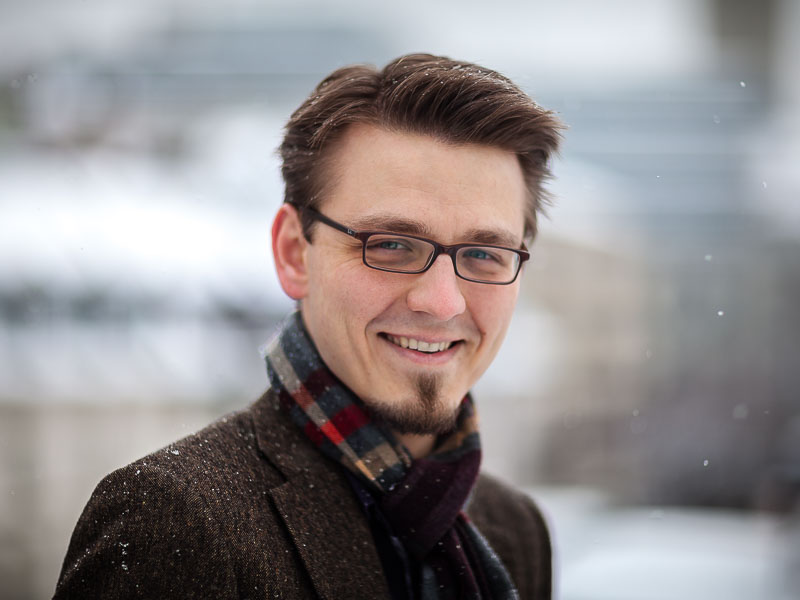
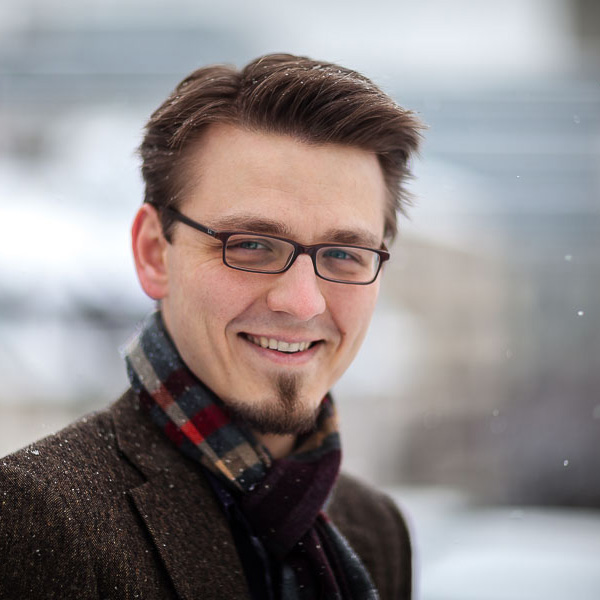
added images and cropped all to square

diff --git a/style_transfer/run.py b/style_transfer/run.py
@@ -8,8 +8,9 @@ HEIGHT = 256
 DATA_INPUT = 'data/input/'
 DATA_OUTPUT = 'data/output/'
 
-style_path = os.path.join(DATA_INPUT, 'style/vangogh.jpg')
+# style_path = os.path.join(DATA_INPUT, 'style/vangogh.jpg')
 # style_path = os.path.join(DATA_INPUT, 'style/rocks.jpg')
+style_path = os.path.join(DATA_INPUT, 'style/checkerboard.jpg')
 content_path = os.path.join(DATA_INPUT, 'content/baker.jpg')
 
 synthetic_name = os.path.splitext(style_path)[0].split('/')[-1]
@@ -60,7 +61,7 @@ transfer.transfer_style_to_image_lbfgs(out_dir = DATA_OUTPUT,
                                  alpha = 1,       # content weighting
                                  beta = 1e3,      # style weighting
                                  params = { 'type' : 'lbfgs',
-                                            'factr' : 1e12})
+                                            'factr' : 1e13})
 
 end = time.time()
 print('Total runtime: {} seconds'.format(end - start))
